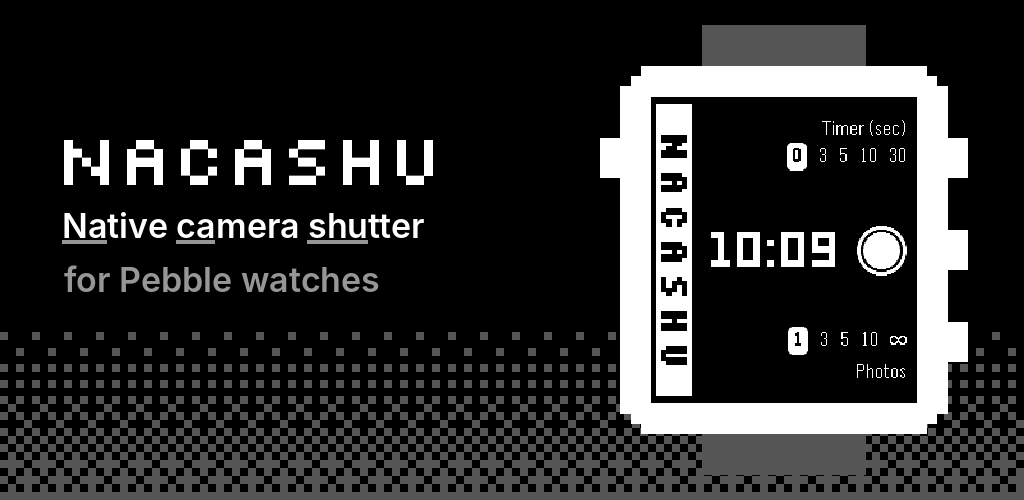
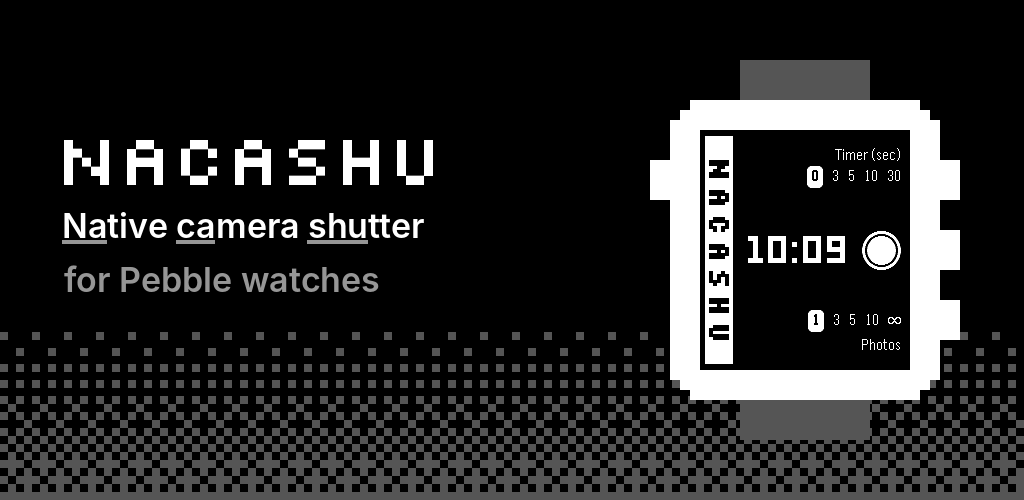
Address review: crisp feature graphic watch, current watch features, release notes
- Feature graphic draws the watch at the Help screen's size so the
  screenshot isn't scaled unevenly; pixel_watch is now pixelated_watch.
- Full description lists the current buttons, sounds and quick launch.
- RELEASING.md: release to production once allowed; 13+ target audience.

Claude-Session: https://claude.ai/code/session_016qf2GgT2tLT2mnJt2QRVqN

Changed region(s): [[0.5625, 0.03, 0.9688, 0.96], [0.9375, 0.45, 0.9688, 0.54]]

diff --git a/watch/tools/make_store_images.py b/watch/tools/make_store_images.py
@@ -105,11 +105,12 @@ def phone_screenshot(lines, shot, path, round_screen=False):
     img.save(path, optimize=True)
 
 
-def pixel_watch(name, cell, height):
+def pixelated_watch(name, cell, shot_scale=1, strap_h=4):
     """The Help screen's chunky watch (android .../WatchDiagram.kt): icon-style body, grey straps,
-    four buttons, the screenshot in its window. Drawn in cells, then scaled to height."""
-    shot = Image.open(DOCS / f"{name}.png").convert("RGB")
-    gap, frame, button_w, button_h, strap_h = 4, 3, 2, 4, 4
+    four buttons, the screenshot in its window. Cells are cell px; the screenshot is scaled by a
+    whole number, so its pixels stay even."""
+    shot = screen(name, shot_scale)
+    gap, frame, button_w, button_h = 4 * shot_scale, 3, 2, 4
     in_w, in_h = (shot.width + 2 * gap + cell - 1) // cell, (shot.height + 2 * gap + cell - 1) // cell
     body_w, body_h = in_w + 2 * frame, in_h + 2 * frame
     img = Image.new("RGBA", ((body_w + 2 * button_w) * cell, (body_h + 2 * strap_h) * cell), (0, 0, 0, 0))
@@ -119,8 +120,9 @@ def pixel_watch(name, cell, height):
         d.rectangle((x * cell, y * cell, (x + w) * cell - 1, (y + h) * cell - 1), fill=colour)
 
     strap_w = body_w // 2
-    cells(button_w + (body_w - strap_w) // 2, 0, strap_w, strap_h, GREY)
-    cells(button_w + (body_w - strap_w) // 2, strap_h + body_h, strap_w, strap_h, GREY)
+    if strap_h:
+        cells(button_w + (body_w - strap_w) // 2, 0, strap_w, strap_h, GREY)
+        cells(button_w + (body_w - strap_w) // 2, strap_h + body_h, strap_w, strap_h, GREY)
     cells(button_w + 2, strap_h, body_w - 4, body_h, WHITE)
     cells(button_w + 1, strap_h + 1, body_w - 2, body_h - 2, WHITE)
     cells(button_w, strap_h + 2, body_w, body_h - 4, WHITE)
@@ -130,8 +132,7 @@ def pixel_watch(name, cell, height):
     middle, step = strap_h * 2 + body_h, body_h // 4
     for left, offset in [(False, -1), (False, 0), (False, 1), (True, -1)]:
         cells(0 if left else button_w + body_w, (middle - button_h) // 2 + offset * step, button_w, button_h, WHITE)
-    scale = height / img.height
-    return img.resize((round(img.width * scale), height), Image.NEAREST)
+    return img
 
 
 def dither(w, h, cell, top, bottom, light=GREY):
@@ -168,8 +169,10 @@ def feature_graphic(path):
     img = Image.new("RGB", (W, H), BLACK)
     img.paste(dither(W, 200, 8, 0.0, 0.7), (0, 300))
     name_block(ImageDraw.Draw(img), 64, 110, 72, 34)
-    w = pixel_watch("emery-1-ready", 8, 450)
-    img.paste(w, (W - w.width - 56, 25), w)
+    # Same proportions as the Help screen (10 px cells, screenshot at 1x). A 2x screenshot needs a
+    # watch taller than the banner, and any in-between size scales the watch screen unevenly.
+    w = pixelated_watch("emery-1-ready", 10)
+    img.paste(w, (W - w.width - 64, (H - w.height) // 2), w)
     img.save(path, optimize=True)
 
 

diff --git a/RELEASING.md b/RELEASING.md
@@ -5,7 +5,7 @@
 1. Bump `versionCode` (Play rejects a number it has seen before) and `versionName` in `android/app/build.gradle.kts`. Bump the watchapp's version in `watch/package.json` to match.
 2. Add `fastlane/metadata/android/en-US/changelogs/<versionCode>.txt` (500 characters max). This is the "What's new" text.
 3. Merge to main. The Android workflow builds `nacashu-android-release` (a signed `.aab`) alongside the debug APK.
-4. In Play Console, create a release on the track you want (internal, closed or production), upload the `.aab` and paste the changelog. Add a last line `Built from <commit>` with the short commit the workflow run built (it's on the run's page, and the app shows it in the status card as "Version 0.3.0 (a0a536e)").
+4. In Play Console, create a release on the production track (before Google grants production access, the closed testing track: see "First-time setup" below), upload the `.aab` and paste the changelog. Add a last line `Built from <commit>` with the short commit the workflow run built (it's on the run's page, and the app shows it in the status card as "Version 0.3.0 (a0a536e)").
 5. Optionally tag that commit (`git tag v0.3.0 <commit> && git push origin v0.3.0`), so the version links to browsable source. The commit stamp works without tags.
 
 ## Store listing
@@ -36,7 +36,8 @@ Done once, in this order:
    - Privacy policy URL: the GitHub page for `PRIVACY.md`. The repo has to be public first, or the policy hosted somewhere public.
    - Accessibility API declaration: Nacashu is not an accessibility tool, so declare what the service does (presses the shutter in the chosen camera app when the watch asks), and attach a short video showing the in-app disclosure, the consent, and a photo taken from the watch.
    - Data safety: no data collected or shared.
-   - Content rating questionnaire, target audience (18+ is simplest), ads: none, app access: no login needed (explain the app needs a Pebble watch to do anything).
+   - Content rating questionnaire, ads: none, target audience: tick 13-15, 16-17 and 18+. Leave out the under-13 groups, which bring in Play's Families policy. The target audience doesn't hide the app from younger people unless you also tick "Restrict minor access" (only offered with 18+ alone), and the age rating shoppers see comes from the questionnaire, not from this ([Google's help page](https://support.google.com/googleplay/android-developer/answer/9867159)).
+   - App access: no login needed (explain the app needs a Pebble watch to do anything).
 5. **Store listing.** Copy in the files above. Category: Photography.
 6. **Closed test.** New personal accounts must run a closed test with at least 12 testers opted in for 14 days in a row before they can apply for production access ([Google's help page](https://support.google.com/googleplay/android-developer/answer/14151465)). Create a closed testing track, add testers by email or a Google Group, and share the opt-in link.
 7. **Production access.** After the 14 days, apply from the Dashboard. Google asks a few questions about the test. Once approved, promote the release to production.
